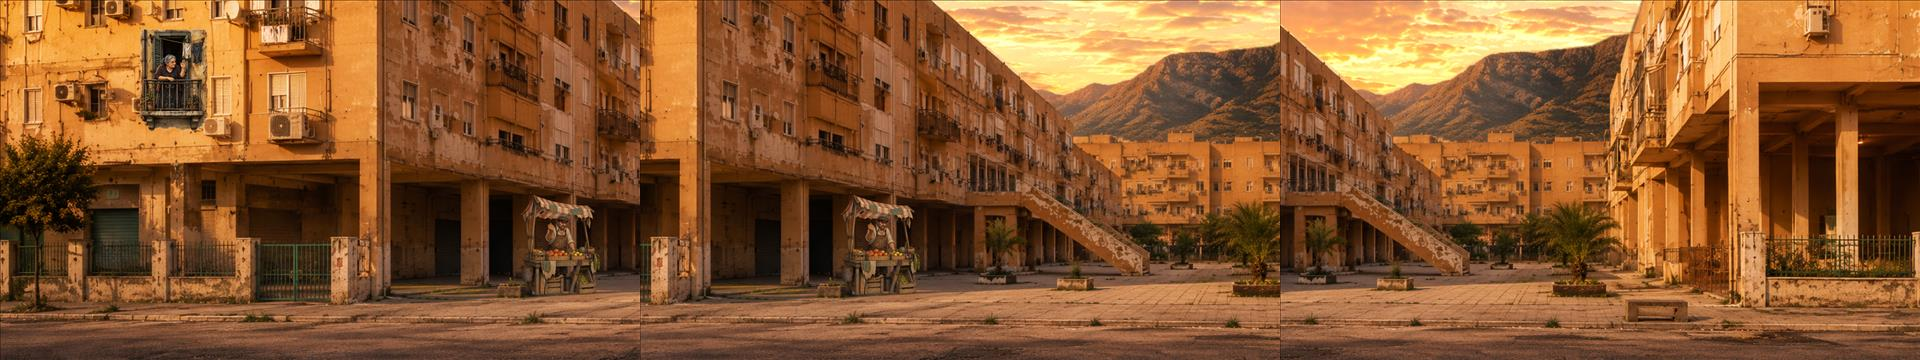
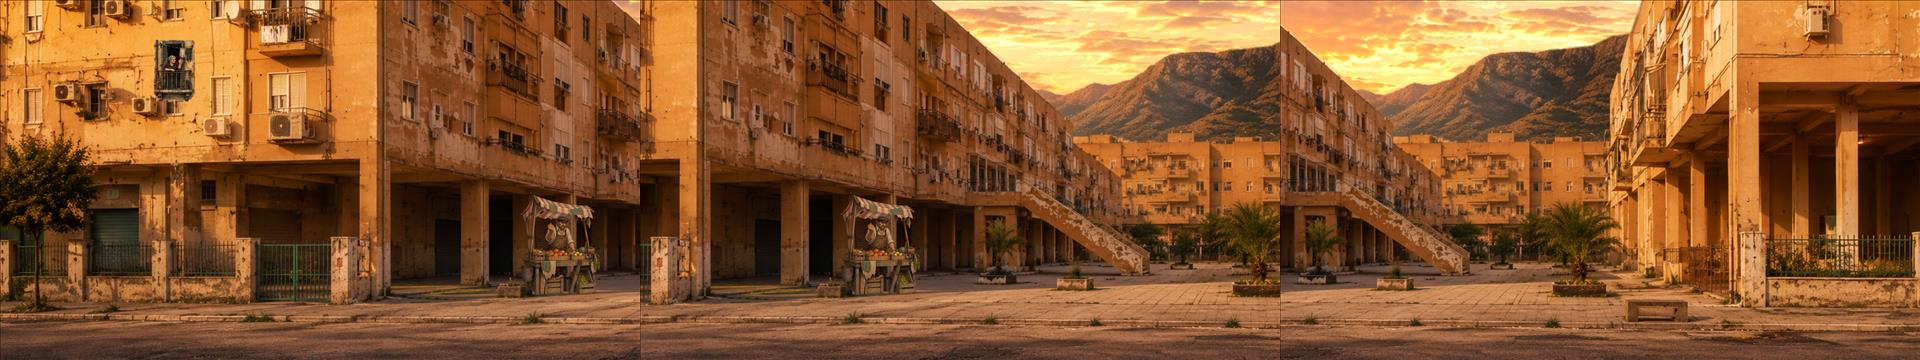
fix: lock M01 ambient scale and balcony shell

Changed region(s): [[0.0625, 0.0611, 0.125, 0.3667]]

diff --git a/src/game/stage/StageAmbientLayer.ts b/src/game/stage/StageAmbientLayer.ts
@@ -10,6 +10,7 @@ interface BirdInstance {
 }
 
 interface SpriteLoopInstance {
+  root: Container;
   sprite: Sprite;
   spec: SpriteLoopAmbientActorData;
   textures: Texture[];
@@ -24,10 +25,19 @@ function seedFromId(id: string, index: number): number {
 
 function birdGraphic(color: number, scale: number): Graphics {
   return new Graphics()
-    .moveTo(-11 * scale, 2 * scale)
-    .quadraticCurveTo(-6 * scale, -4 * scale, 0, 0)
-    .quadraticCurveTo(6 * scale, -4 * scale, 11 * scale, 2 * scale)
-    .stroke({ color, width: Math.max(1.2, 1.8 * scale), alpha: 0.86 });
+    .moveTo(-17 * scale, 3 * scale)
+    .quadraticCurveTo(-11 * scale, -7 * scale, -2 * scale, -1 * scale)
+    .lineTo(0, 1.5 * scale)
+    .lineTo(2 * scale, -1 * scale)
+    .quadraticCurveTo(11 * scale, -7 * scale, 17 * scale, 3 * scale)
+    .quadraticCurveTo(10 * scale, 0, 2 * scale, 3 * scale)
+    .lineTo(-2 * scale, 3 * scale)
+    .quadraticCurveTo(-10 * scale, 0, -17 * scale, 3 * scale)
+    .closePath()
+    .fill({ color, alpha: 0.94 })
+    .stroke({ color: 0x45423d, width: Math.max(0.9, 1.15 * scale), alpha: 0.82 })
+    .ellipse(0, 2.2 * scale, 4.2 * scale, 1.8 * scale)
+    .fill({ color: 0x5b5751, alpha: 0.9 });
 }
 
 export class StageAmbientLayer {
@@ -49,7 +59,7 @@ export class StageAmbientLayer {
           const scale = (spec.scale ?? 1) * (0.72 + stableUnit(seed + 11) * 0.48);
           const root = new Container();
           root.addChild(birdGraphic(spec.color ?? 0x28231f, scale));
-          root.alpha = 0.68 + stableUnit(seed + 19) * 0.25;
+          root.alpha = 0.82 + stableUnit(seed + 19) * 0.14;
           this.root.addChild(root);
           this.birds.push({ root, seed, spec });
         }
@@ -58,13 +68,30 @@ export class StageAmbientLayer {
       const textures = spec.frames.map((path) => textureMap.get(path));
       if (textures.some((texture) => !texture)) throw new Error(`${spec.id}: frame ambientale non caricato`);
       const sprite = new Sprite(textures[0]!);
-      sprite.anchor.set(...(spec.anchor ?? [0.5, 1]));
+      const anchor = spec.anchor ?? [0.5, 1];
+      sprite.anchor.set(...anchor);
       sprite.width = spec.size[0];
       sprite.height = spec.size[1];
       sprite.alpha = spec.alpha ?? 1;
-      this.root.addChild(sprite);
+      const root = new Container();
+      if (spec.motion_window) {
+        const shell = new Sprite(textures[0]!);
+        shell.anchor.set(...anchor);
+        shell.width = spec.size[0];
+        shell.height = spec.size[1];
+        shell.alpha = spec.alpha ?? 1;
+        const [x, y, width, height] = spec.motion_window;
+        const mask = new Graphics()
+          .rect(-anchor[0] * spec.size[0] + x, -anchor[1] * spec.size[1] + y, width, height)
+          .fill(0xffffff);
+        sprite.mask = mask;
+        root.addChild(shell, sprite, mask);
+      } else {
+        root.addChild(sprite);
+      }
+      this.root.addChild(root);
       const cycle = spec.frame_durations.reduce((sum, duration) => sum + Math.max(0.05, duration), 0);
-      this.spriteLoops.push({ sprite, spec, textures: textures as Texture[], phase: stableUnit(seedFromId(spec.id, 0)) * cycle });
+      this.spriteLoops.push({ root, sprite, spec, textures: textures as Texture[], phase: stableUnit(seedFromId(spec.id, 0)) * cycle });
     }
   }
 
@@ -82,7 +109,7 @@ export class StageAmbientLayer {
     for (const loop of this.spriteLoops) {
       const frameIndex = frameAtTime(loop.spec.frame_durations, this.elapsed + loop.phase);
       loop.sprite.texture = loop.textures[frameIndex] ?? loop.textures[0]!;
-      loop.sprite.position.set(
+      loop.root.position.set(
         loop.spec.position[0] - cameraX * loop.spec.parallax + shake.x * loop.spec.parallax,
         loop.spec.position[1] + shake.y * loop.spec.parallax,
       );

diff --git a/tests/stage-ambient.test.ts b/tests/stage-ambient.test.ts
@@ -11,6 +11,7 @@ interface BirdSpec {
   count: number;
   speed: number;
   parallax: number;
+  scale: number;
   interactive: false;
 }
 
@@ -21,6 +22,7 @@ interface SpriteLoopSpec {
   position: [number, number];
   size: [number, number];
   frame_durations: number[];
+  motion_window?: [number, number, number, number];
   parallax: number;
   interactive: false;
 }
@@ -48,6 +50,7 @@ test('every Stage 1 module has a bounded non-interactive sky flock', () => {
       assert.ok(actor.count >= 3 && actor.count <= 10, `${actor.id}: restrained flock density`);
       assert.ok(actor.speed >= 20 && actor.speed <= 55, `${actor.id}: readable background speed`);
       assert.ok(actor.parallax >= 0.2 && actor.parallax <= 0.5, `${actor.id}: background parallax`);
+      assert.ok(actor.scale >= 1.2 && actor.scale <= 1.7, `${actor.id}: gull silhouette scale`);
     }
   }
 });
@@ -65,6 +68,11 @@ test('M01 has valid balcony and vendor loops outside the combat lane', () => {
     for (const frame of loop.frames) assert.ok(fs.existsSync(`public/${frame}`), `${loop.id}: missing ${frame}`);
   }
   assert.equal(collectAmbientAssets(m01).length, 8);
+  const balcony = loops[0]!;
+  const vendor = loops[1]!;
+  assert.deepEqual(balcony.motion_window, [26, 27, 57, 56]);
+  assert.ok(balcony.size[1] >= 0.35 * 290 && balcony.size[1] <= 0.48 * 290, 'balcony module must match the recessed facade scale');
+  assert.ok(vendor.size[1] >= 0.65 * 290 && vendor.size[1] <= 0.75 * 290, 'vendor must match the rear sidewalk scale');
 });
 
 test('sprite loop durations select stable frames and wrap', () => {

diff --git a/src/game/types.ts b/src/game/types.ts
@@ -168,6 +168,8 @@ export interface SpriteLoopAmbientActorData {
   anchor?: [number, number];
   /** Per-frame durations in seconds; one value per frame. */
   frame_durations: number[];
+  /** Optional fixed outer shell; only this local rectangle receives animated frames. */
+  motion_window?: [number, number, number, number];
   parallax: number;
   alpha?: number;
   interactive?: false;

diff --git a/docs/STAGE1_DECEMBER_2026_PLAN.md b/docs/STAGE1_DECEMBER_2026_PLAN.md
@@ -47,5 +47,6 @@ Gate finale: lo Stage 1 e completabile, presentabile e reinstallabile su una sec
 - M01-M04: fasce WALK sottoposte ad audit visivo e corrette.
 - M01-M04: primo attore ambientale procedurale, stormi di uccelli, integrato e configurato per modulo.
 - M01: signora ancorata a un modulo architettonico completo e venditore con bancarella deteriorata integrati come cicli sprite non interattivi. Direzione visiva corretta verso una borgata più sporca, dura e vissuta.
+- M01: scala prospettica della signora bloccata al 35-48% dell'attore canonico; involucro del balcone fisso durante l'animazione. Stormi sostituiti visivamente da gabbiani più grandi confinati al cielo.
 - Sistema di audit: overlay dei layer reali, poligono WALK e sagome in scala disponibile in `tools/audit-stage-walk-bands.py`.
 - Prossimo incremento: prova visiva completa di M01 e, dopo il gate, riuso del contratto `sprite_loop` per bambini che giocano nel campetto M03.
